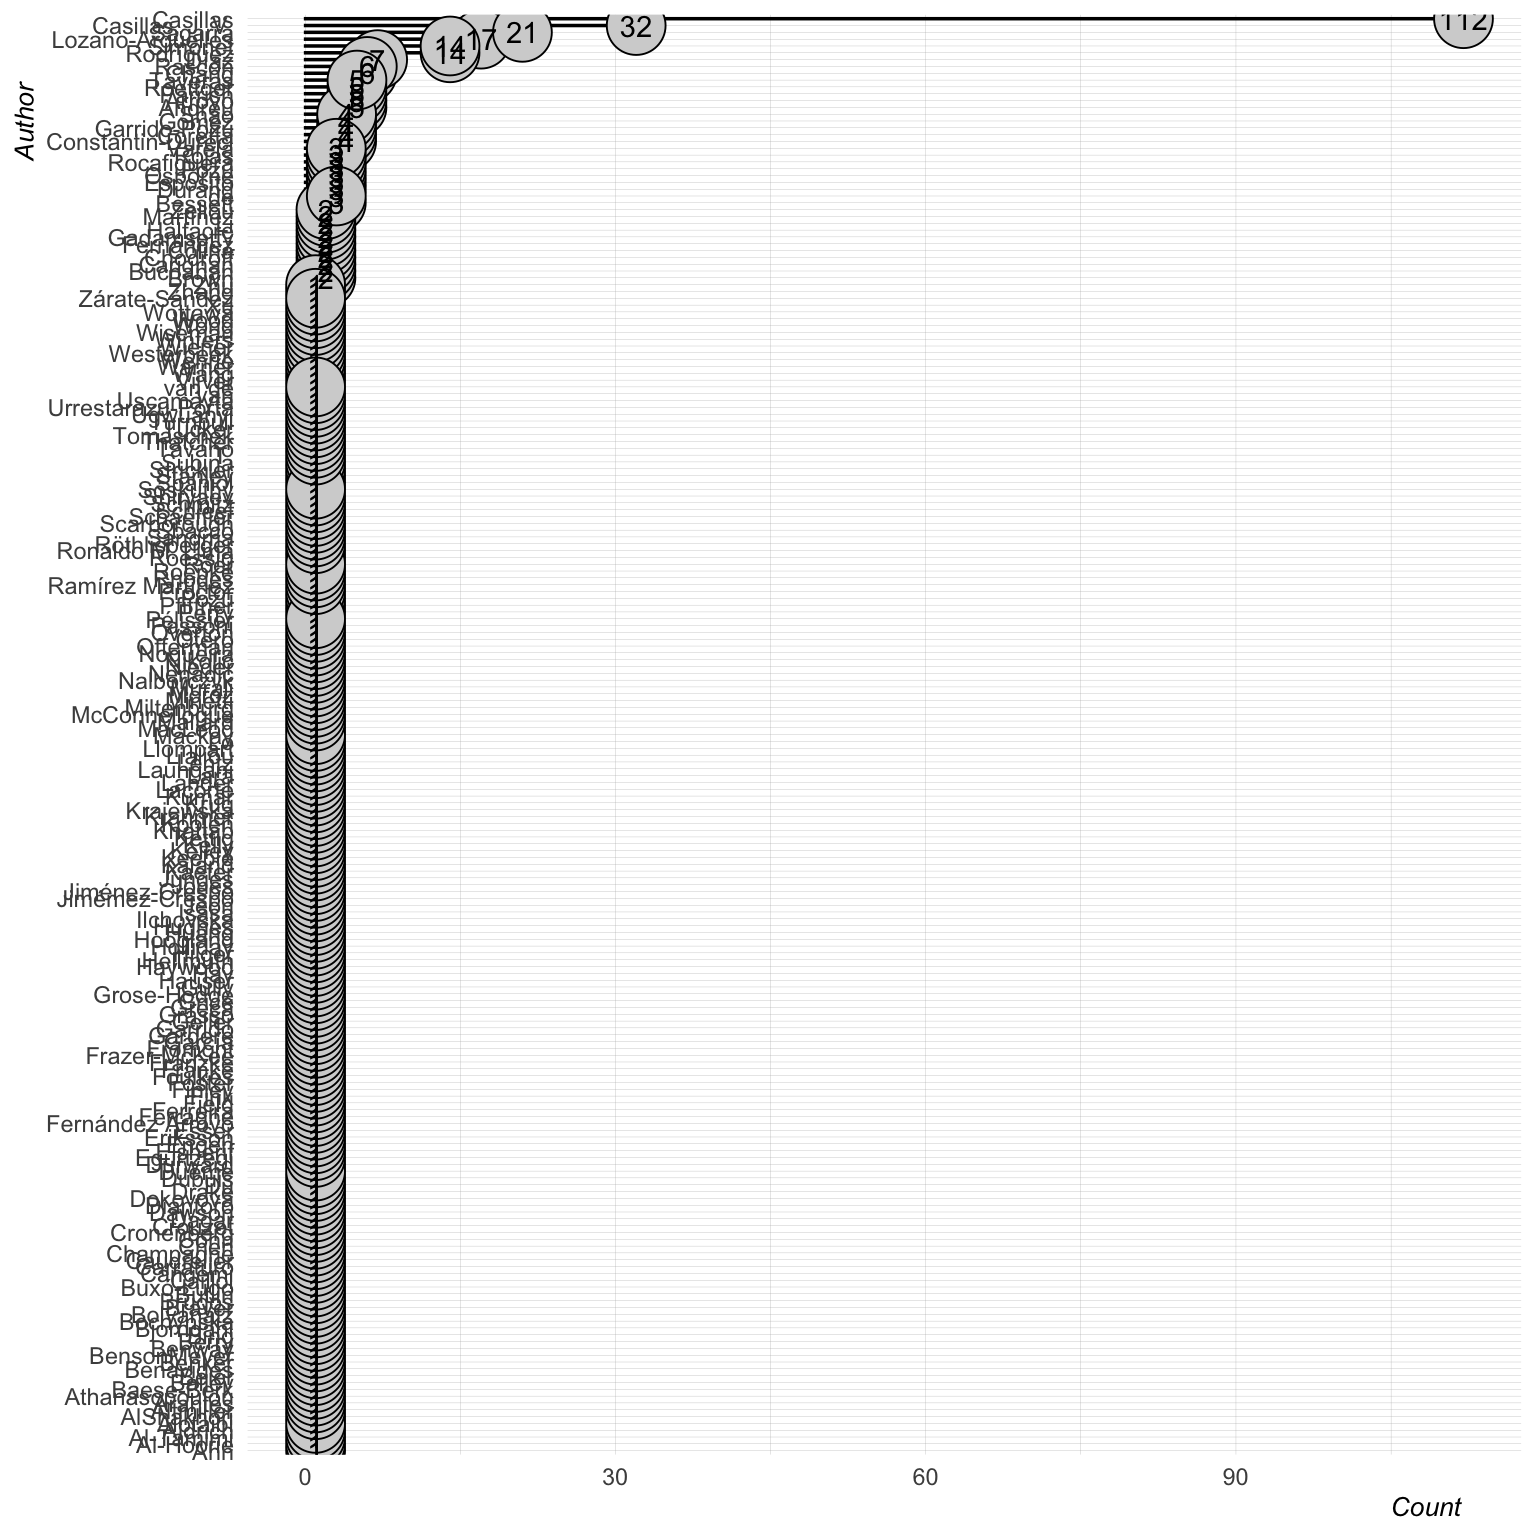
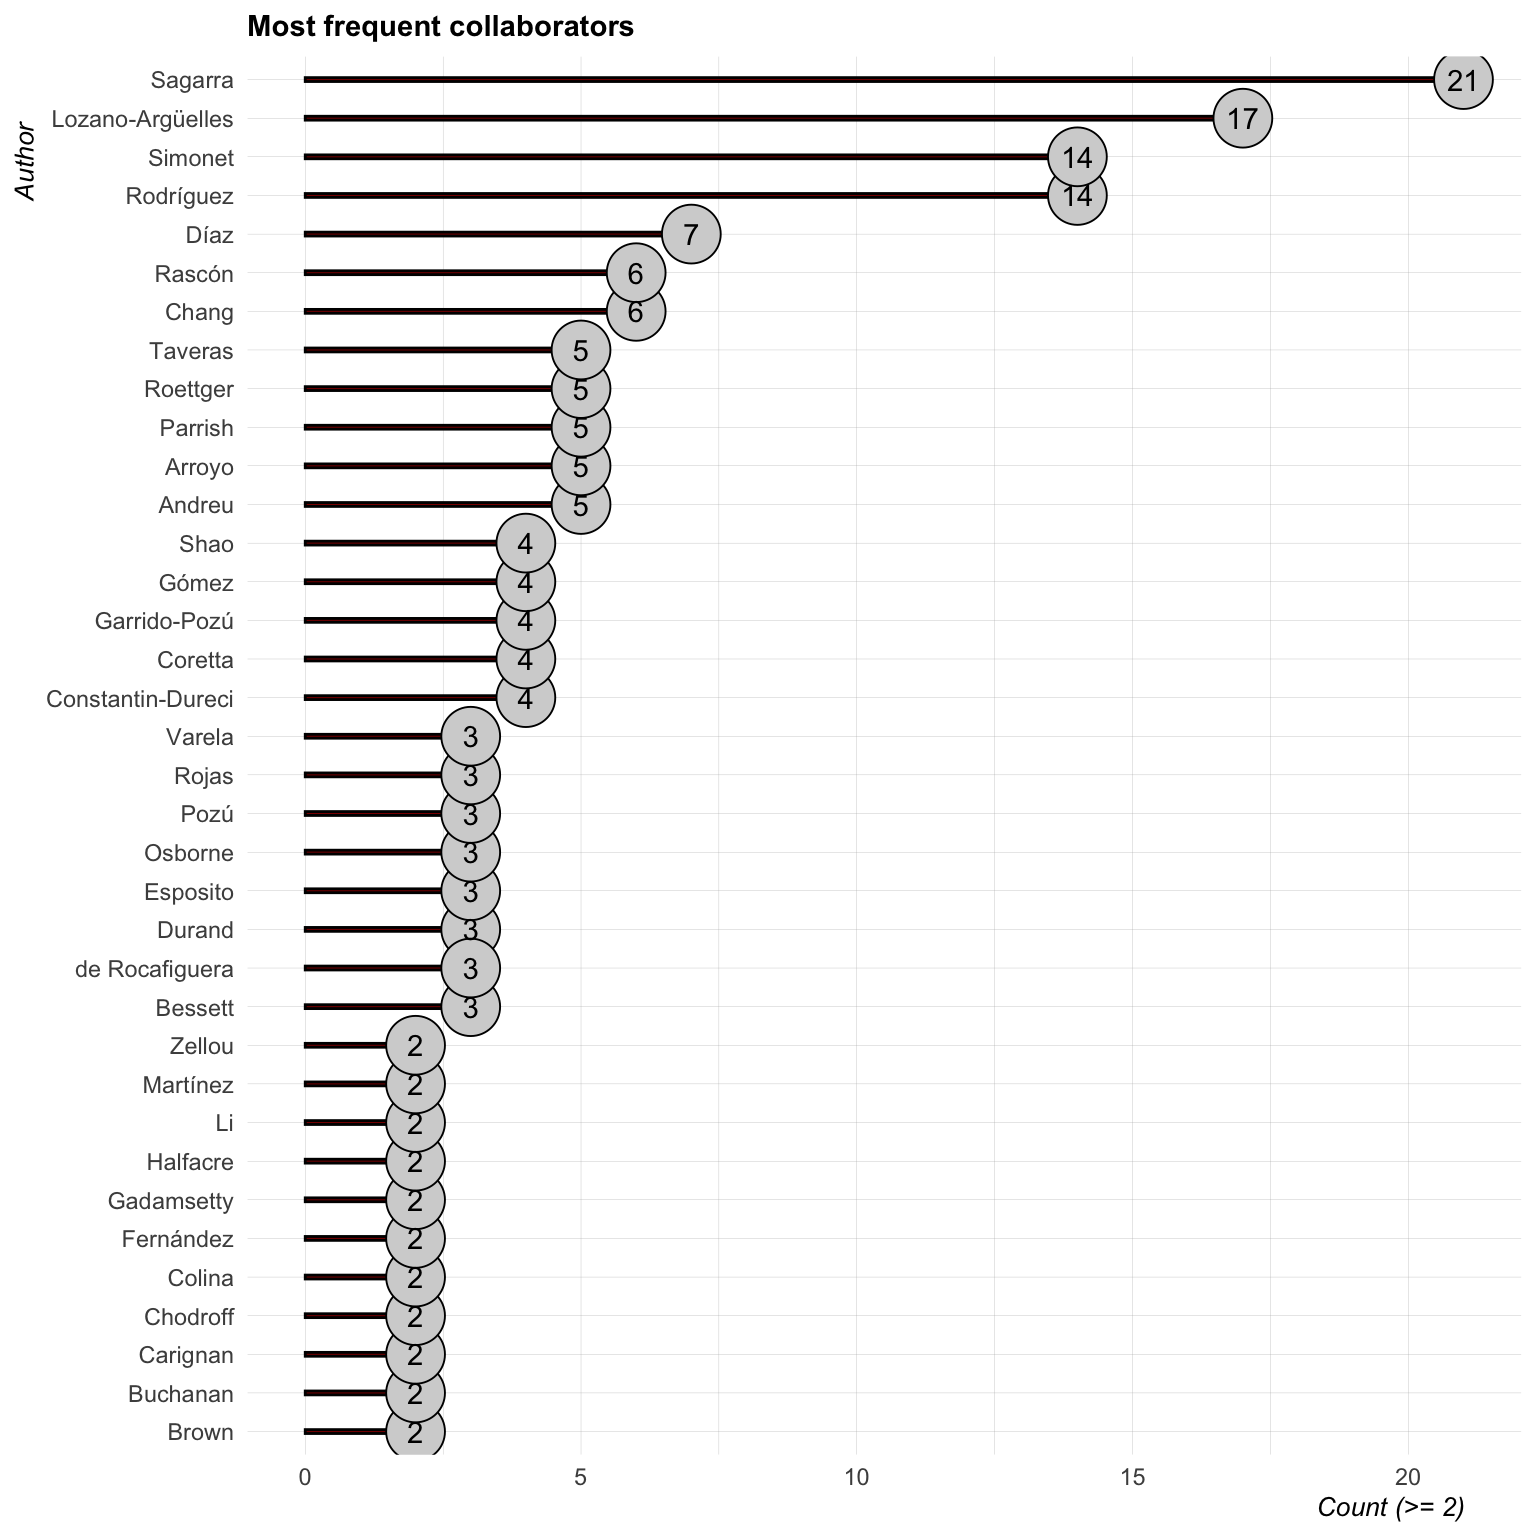
clean up years

Changed region(s): [[0.0, 0.0, 1.0, 1.0]]

diff --git a/README.md b/README.md
@@ -1,7 +1,7 @@
 
 # mybib
 
-**Last Updated**: 2024-01-15 11:14:17.534003  
+**Last Updated**: 2024-01-15 11:57:00.810459  
 **License**: Public Domain (CC-0)
 
 Version controlled .bib files for my scholarly work, as well as some
@@ -53,8 +53,8 @@ And now some basic statistics on its contents:
 counts <- xtabs(~bibtype, data = bib) %>% as_tibble
 
 counts %>% 
-  mutate(., bibtype = fct_reorder(bibtype, n)) %>% 
-  ggplot(., aes(x = bibtype, y = n, label = n)) + 
+  mutate(bibtype = fct_reorder(bibtype, n)) %>% 
+  ggplot(aes(x = bibtype, y = n, label = n)) + 
     geom_bar(stat = 'identity', color = 'black', 
              fill = 'darkred', width = 0.1) + 
     geom_point(pch = 21, size = 10, color = 'black', fill = 'lightgrey') + 
@@ -64,12 +64,6 @@ counts %>%
     my_theme()
 ```
 
-    ## Warning: The `size` argument of `element_line()` is deprecated as of ggplot2 3.4.0.
-    ## ℹ Please use the `linewidth` argument instead.
-    ## This warning is displayed once every 8 hours.
-    ## Call `lifecycle::last_lifecycle_warnings()` to see where this warning was
-    ## generated.
-
 <img src="README_files/figure-gfm/bibtype-1.png" width="768" />
 
 ## Journals
@@ -78,11 +72,11 @@ counts %>%
 datj <- aggregate(bibtype ~ journal, data = bib, FUN = length)
 
 dat %>% 
-  group_by(., journal) %>% 
-  summarize(., counts = n(), .groups = "drop") %>% 
+  group_by(journal) %>% 
+  summarize(counts = n(), .groups = "drop") %>% 
   na.omit() %>% 
-  mutate(., journal = fct_reorder(journal, counts)) %>% 
-  ggplot(., aes(x = journal, y = counts, label = counts)) + 
+  mutate(journal = fct_reorder(journal, counts)) %>% 
+  ggplot(aes(x = journal, y = counts, label = counts)) + 
     geom_bar(stat = "identity", color = 'black', 
              fill = 'darkred', width = 0.1) + 
     geom_point(pch = 21, size = 10, color = 'black', fill = 'lightgrey') + 
@@ -108,17 +102,19 @@ for (i in 1:length(bib)) {
 
 # Convert to tibble and plot
 map(authors, HTMLdecode) %>% 
-  unlist(.) %>% 
-  enframe(.) %>% 
-  group_by(., value) %>% 
-  summarize(., counts = n(), .groups = "drop") %>% 
-  mutate(., value = fct_reorder(value, counts)) %>% 
-  ggplot(., aes(x = value, y = counts, label = counts)) + 
+  unlist() %>% 
+  enframe() %>% 
+  group_by(value) %>% 
+  summarize(counts = n(), .groups = "drop") %>% 
+  mutate(value = fct_reorder(value, counts)) %>% 
+  filter(counts >= 2, value != "Casillas") %>% 
+  ggplot(aes(x = value, y = counts, label = counts)) + 
     geom_bar(stat = "identity", color = 'black', 
              fill = 'darkred', width = 0.1) + 
     geom_point(pch = 21, size = 10, color = 'black', fill = 'lightgrey') + 
     geom_text() + 
-    labs(y = "Count", x = "Author") + 
+    labs(y = "Count (>= 2)", x = "Author", 
+         title = "Most frequent collaborators") + 
     coord_flip() + 
     my_theme()
 ```
@@ -129,27 +125,30 @@ map(authors, HTMLdecode) %>%
 
 ``` r
 prod <- dat %>% 
-  select(., year) %>% 
-  na.omit(.) %>% 
-  group_by(., year) %>% 
-  summarize(., counts = n(), .groups = "drop") %>% 
-  ungroup(.) %>% 
-  mutate(., status = if_else(year <=2012, 'MA\nStudent', 
-                             if_else(year <=2016, 'PhD\nStudent', 
-                                     'Asst.\nProf')), 
-            status = fct_relevel(status, 
-                                 c('MA\nStudent', 'PhD\nStudent', 
-                                   'Asst.\nProf')))
+  select(year) %>% 
+  na.omit() %>% 
+  group_by(year) %>% 
+  summarize(counts = n(), .groups = "drop") %>% 
+  ungroup() %>% 
+  mutate(
+    status = case_when(
+        year <= 2012               ~ "MA\nStudent", 
+        year >  2012 & year < 2016 ~ "PhD\nStudent", 
+        year >= 2016 & year < 2022 ~ "Asst.\nProf", 
+        year >= 2022               ~ "Assoc.\nProf"
+      ),
+    status = fct_relevel(status,  c('MA\nStudent', 'PhD\nStudent', 'Asst.\nProf'))
+  )
 
 year_max <- max(prod$counts)
 year_current <- prod$year %>% unique %>% max
 
 prod %>% 
-  ggplot(., aes(x = year, y = counts, label = counts)) + 
+  ggplot(aes(x = year, y = counts, label = counts)) + 
     geom_bar(stat = "identity", color = 'black', 
              fill = 'black', width = 0.1) + 
     geom_point(aes(shape = status, fill = status), size = 10, color = 'black') + 
-    scale_shape_manual(name = '', values = 21:23) + 
+    scale_shape_manual(name = '', values = 21:24) + 
     scale_x_continuous(breaks = seq(2009, year_current, 1)) + 
     geom_text(color = 'white') + 
     scale_fill_brewer(name = '', palette = 'Set1') + 
@@ -265,7 +264,7 @@ I can predict how this will grow over the next ten years.
 
 ``` r
 my_h %>% 
-  ggplot(., aes(x = years_ahead, y = h_index)) + 
+  ggplot(aes(x = years_ahead, y = h_index)) + 
     geom_hline(yintercept = ms_h[1, 2], lty = 3) + 
     geom_path() + 
     geom_point(pch = 24, fill = "grey90", size = 3) + 
@@ -277,7 +276,7 @@ my_h %>%
 
 ``` r
 ms_h %>% 
-  ggplot(., aes(x = years_ahead, y = h_index)) + 
+  ggplot(aes(x = years_ahead, y = h_index)) + 
     geom_hline(yintercept = ms_h[1, 2], lty = 3) + 
     geom_path() + 
     geom_point(pch = 24, fill = "grey90", size = 3) + 
@@ -295,7 +294,7 @@ This might be a useful metric for setting goals.
 ``` r
 # Plot h-index side by side
 h_index_1 <- bind_rows(my_h, ms_h, mj_h) %>% 
-  ggplot(., aes(x = years_ahead, y = h_index, shape = author, color = author)) + 
+  ggplot(aes(x = years_ahead, y = h_index, shape = author, color = author)) + 
     geom_path() + 
     geom_point(fill = "grey90", size = 3) + 
     scale_color_viridis_d(option = "C", end = 0.4) + 
@@ -406,11 +405,12 @@ comparable. 😳
 ## Submitted
 
 - International Journal of Bilingualism
+- Linguistic approaches to bilingualism
+- Linguistics: An Interdisciplinary Journal of the Language Sciences
 
 ## In prep
 
 - JASA
-- Linguistic approaches to bilingualism
 
 ## On deck
 
@@ -446,12 +446,17 @@ filter(cite_key_list, type == "Article") %>%
   ref_printer
 ```
 
-Sagarra, N. and . Casillas, J. V. (2023). “Practice beats age:
+Bochynska, A., L. Keeble, C. Halfacre, J. V. Casillas, I. Champagne, K.
+Chen, M. Röthlisberger, E. M. Buchanan, and T. B. Roettger (2023).
+“Reproducible research practices and transparency across Linguistics”.
+In: *Glossa Psycholinguistics* 2 (1), pp. 1-36. DOI: 10.5070/G6011239.
+
+Sagarra, N. and J. V. Casillas (2023). “Practice beats age:
 Co-activation shapes heritage speakers’ lexical access more than age of
 onset”. In: *Frontiers in Psychology* 14, pp. 1-18. DOI:
 10.3389/fpsyg.2023.1141174.
 
-Lozano-Argüelles, C., N. Sagarra, and . Casillas, J. V. (2023).
+Lozano-Argüelles, C., N. Sagarra, and J. V. Casillas (2023).
 “Interpreting experience and working memory effects on L1 and L2
 morphological prediction”. In: *Frontiers in Language Sciences* 1, pp.
 1-16. DOI: 10.3389/flang.2022.1065014.
